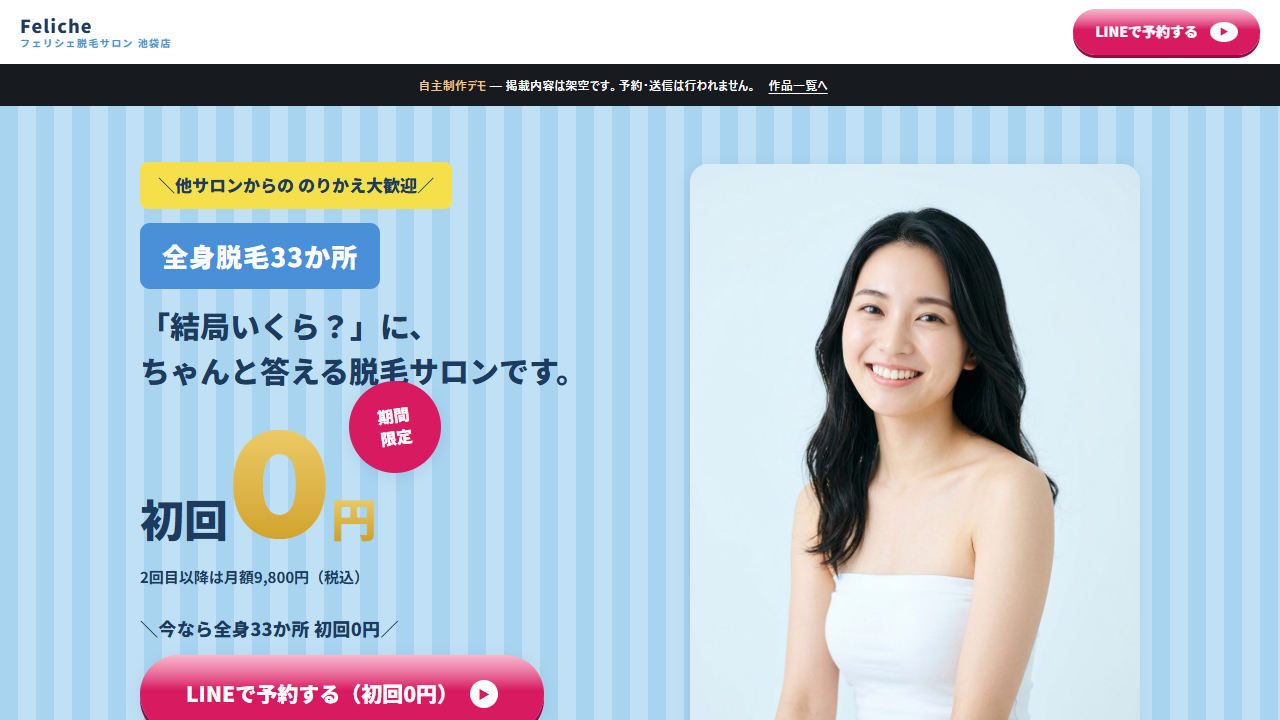
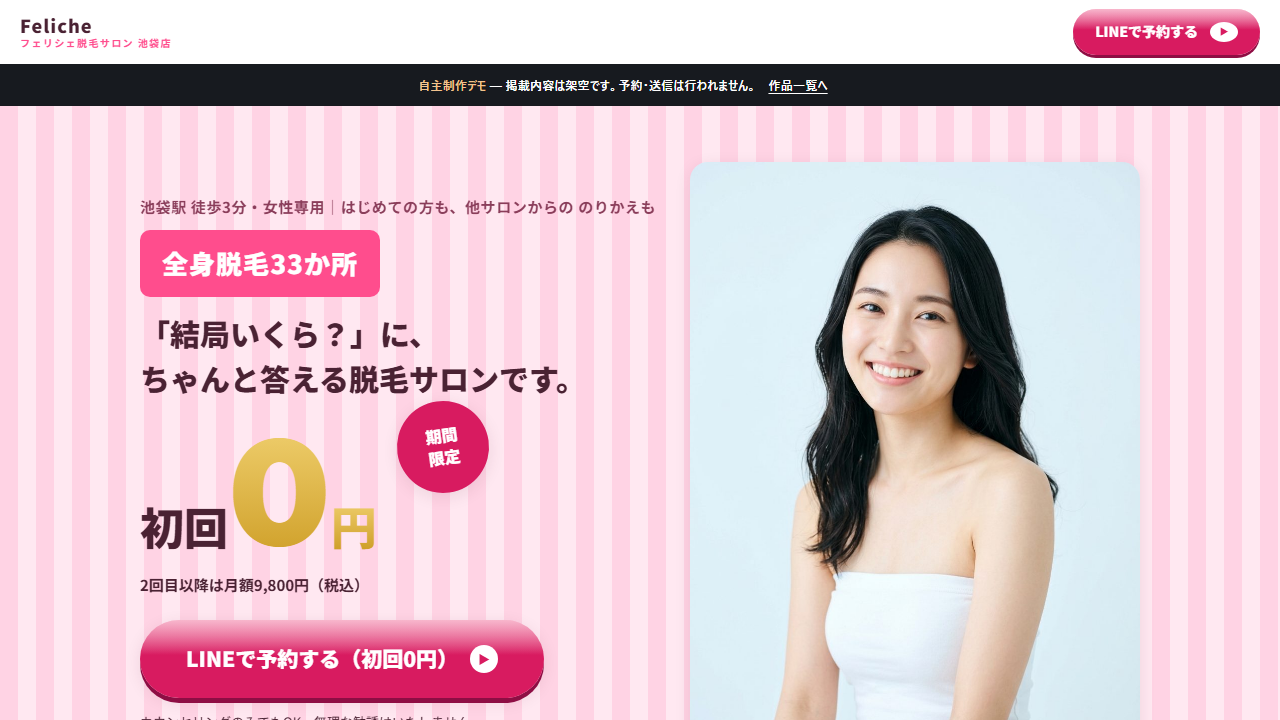
監査で不合格だった3LPのファーストビューを改修（michishirube・inahodo・feliche）
- michishirube: 縦センタリング起因の左上空白を解消し、特徴3点を全幅帯へ
  移動して構成を差別化。写真にネイビートーンの編集処理を追加
- inahodo: PC初期表示に商品名・価格・CTAのスティッキーバーを常設し、
  ヒーロー直下に贈答・自宅用の対象帯を追加（SPの表示は従来どおり）
- feliche: 黄タグを対象明記の一行に置換、FVの重複マイクロコピーを削除、
  期間限定バッジの重なりを解消（SPはインラインピル化）
- 3作品のハブ用プレビュー画像を新FVで再生成

3視点セット審査で3作品とも2/3以上合格、320-1440pxの5幅で
横スクロールなし・コンソールエラー0を確認。

diff --git a/michishirube/index.html b/michishirube/index.html
@@ -41,21 +41,24 @@ a{color:var(--civic)}
 .btn.small{padding:9px 18px;font-size:14px}
 
 /* ---- hero ---- */
-.hero{display:grid;grid-template-columns:50% 50%;min-height:82vh;border-bottom:1px solid var(--line)}
-.hero-copy{display:flex;flex-direction:column;justify-content:center;padding:56px 44px 56px 24px;max-width:620px;justify-self:end;width:100%}
+.hero{display:grid;grid-template-columns:46% 54%;min-height:0;border-bottom:1px solid var(--line)}
+.hero-copy{display:flex;flex-direction:column;justify-content:flex-start;padding:68px 44px 64px 24px;max-width:620px;justify-self:end;width:100%}
 .eyebrow{font-size:13px;font-weight:700;color:var(--civic);letter-spacing:.14em;margin-bottom:20px}
 .eyebrow::before{content:"";display:inline-block;width:28px;height:4px;background:var(--civic);margin-right:10px;vertical-align:middle}
 h1{font-size:clamp(30px,3.4vw,44px);font-weight:900;line-height:1.45;letter-spacing:.01em}
 h1 .bw{display:inline-block}
 .hero-sub{margin-top:20px;font-size:16px;font-weight:300;line-height:2.0}
-.trust{display:flex;margin-top:28px;border-top:1px solid var(--line);border-bottom:1px solid var(--line)}
-.trust li{list-style:none;flex:1;text-align:center;padding:12px 4px;font-size:13px;font-weight:700}
+.trust{grid-column:1/-1;display:flex;margin:0;background:var(--mist);border-top:1px solid var(--line)}
+.trust li{list-style:none;flex:1;text-align:center;padding:18px 4px;font-size:14px;font-weight:700}
+.trust li::before{content:"";display:inline-block;width:8px;height:8px;border-radius:50%;background:var(--civic);margin-right:9px;vertical-align:2px}
 .trust li+li{border-left:1px solid var(--line)}
-.hero-action{margin-top:28px}
+.hero-action{margin-top:32px}
 .cta-note{font-size:12px;color:#55565C;margin-top:8px}
-.hero-photo{position:relative;overflow:hidden}
-.hero-photo img{width:100%;height:100%;object-fit:cover;object-position:50% 56%}
-.demo-ribbon{position:absolute;top:14px;right:0;background:var(--ink);color:#fff;font-size:11px;font-weight:500;letter-spacing:.1em;padding:5px 14px}
+.hero-photo{position:relative;overflow:hidden;min-height:440px}
+.hero-photo img{width:100%;height:100%;object-fit:cover;object-position:50% 56%;filter:saturate(.82) contrast(1.05)}
+.hero-photo::after{content:"";position:absolute;inset:0;z-index:1;pointer-events:none;
+  background:linear-gradient(205deg, rgba(20,40,80,0) 52%, rgba(20,40,80,.26) 100%)}
+.demo-ribbon{position:absolute;top:14px;right:0;z-index:2;background:var(--ink);color:#fff;font-size:11px;font-weight:500;letter-spacing:.1em;padding:5px 14px}
 
 /* ---- sections ---- */
 section{padding:64px 24px}
@@ -139,7 +142,7 @@ footer .demo-note{font-weight:700;color:var(--ink);margin-bottom:6px}
   .hero{grid-template-columns:1fr;min-height:0}
   .hero-copy{padding:26px 20px 32px;max-width:none;justify-self:stretch}
   .hero-sub{font-size:14px;margin-top:14px;line-height:1.8}
-  .trust{margin-top:18px}
+  .trust{margin-top:0}
   .hero-action{margin-top:18px}
   .eyebrow{margin-bottom:12px}
   h1{font-size:27px}
@@ -191,11 +194,6 @@ p,li,dt,dd{text-wrap:pretty}
       <p class="eyebrow">補助金・許認可・相続の申請代行</p>
       <h1><span class="bw">申請書類に、</span><span class="bw">あなたの時間を</span><span class="bw">使わせない。</span></h1>
       <p class="hero-sub">補助金・許認可・相続——面倒な行政手続きを、行政書士がまるごとサポート。あなたは本業と暮らしに集中できます。</p>
-      <ul class="trust">
-        <li>初回相談無料</li>
-        <li>オンライン対応</li>
-        <li>土日祝も受付</li>
-      </ul>
       <div class="hero-action">
         <a class="btn" href="#contact">無料相談を予約する</a>
         <p class="cta-note">30分・オンライン可・売り込みは一切ありません</p>
@@ -206,6 +204,11 @@ p,li,dt,dd{text-wrap:pretty}
       <img src="assets/hero.webp" alt="申請書類に記入する行政書士の手元のイメージ（AI生成）" width="1152" height="2048">
       <span class="demo-ribbon">架空デモ</span>
     </div>
+    <ul class="trust">
+      <li>初回相談無料</li>
+      <li>オンライン対応</li>
+      <li>土日祝も受付</li>
+    </ul>
   </div>
 
   <section>

diff --git a/feliche/index.html b/feliche/index.html
@@ -75,6 +75,7 @@ a:focus-visible,button:focus-visible{outline:3px solid var(--navy);outline-offse
 /* ===== FV ===== */
 .fv{padding:56px 0 0;overflow:hidden}
 .fv .inner{display:grid;grid-template-columns:1.15fr 1fr;gap:32px;align-items:center}
+.fv-target{font-weight:700;font-size:15px;letter-spacing:.04em;color:#8A3D5A;margin:0 0 10px}
 .fv-hook{display:inline-block;background:var(--yellow);font-weight:900;font-size:17px;
   padding:8px 18px;border-radius:8px;margin-bottom:14px}
 .fv-define{display:inline-block;background:var(--blue);color:#fff;font-weight:900;font-size:26px;
@@ -84,7 +85,7 @@ a:focus-visible,button:focus-visible{outline:3px solid var(--navy);outline-offse
 .fv-offer .label{font-size:44px;font-weight:900;vertical-align:baseline}
 .fv-offer .zero{font-family:'Montserrat','Noto Sans JP',sans-serif;font-weight:800;font-size:150px;vertical-align:baseline}
 .fv-offer .unit{font-size:46px;font-weight:900;vertical-align:baseline}
-.fv-badge{position:absolute;top:-28px;right:-64px;width:92px;height:92px;border-radius:50%;
+.fv-badge{position:absolute;top:-16px;right:-112px;width:92px;height:92px;border-radius:50%;
   background:var(--pink);color:#fff;display:flex;align-items:center;justify-content:center;
   font-weight:900;font-size:16px;line-height:1.35;text-align:center;transform:rotate(-8deg);
   box-shadow:var(--shadow)}
@@ -278,7 +279,7 @@ html.js .reveal.on{opacity:1;transform:none}
   .fv-offer .label{font-size:30px}
   .fv-offer .zero{font-size:96px}
   .fv-offer .unit{font-size:32px}
-  .fv-badge{top:-22px;right:-6px;width:76px;height:76px;font-size:13px}
+  .fv-badge{position:static;display:inline-flex;align-items:center;justify-content:center;width:auto;height:auto;border-radius:999px;padding:7px 13px;font-size:12px;line-height:1.35;margin-left:10px;vertical-align:24px}
   .fv .cta-block{text-align:center}
   .worry-cards{grid-template-columns:1fr;gap:14px}
   .reasons{grid-template-columns:1fr}
@@ -330,7 +331,7 @@ p,li,dt,dd{text-wrap:pretty}
 <section class="fv bg-stripe">
   <div class="inner">
     <div>
-      <span class="fv-hook">＼他サロンからの のりかえ大歓迎／</span><br>
+      <p class="fv-target">池袋駅 徒歩3分・女性専用｜はじめての方も、他サロンからの のりかえも</p>
       <span class="fv-define">全身脱毛33か所</span>
       <h1>「結局いくら？」に、<br><span class="bw">ちゃんと答える</span><span class="bw">脱毛サロンです。</span></h1>
       <div class="fv-offer">
@@ -339,8 +340,7 @@ p,li,dt,dd{text-wrap:pretty}
       </div>
       <p class="fv-anchor">2回目以降は月額9,800円（税込）</p>
       <div class="cta-block">
-        <p class="cta-micro">＼今なら全身33か所 初回0円／</p>
-        <!-- TODO: LINE公式アカウントURL確定後に差し替え（公開ブロッカー） -->
+                <!-- TODO: LINE公式アカウントURL確定後に差し替え（公開ブロッカー） -->
         <a class="cta-btn" href="#">LINEで予約する（初回0円）<span class="arrow">▶</span></a>
         <p class="cta-note">カウンセリングのみでもOK・無理な勧誘はいたしません</p>
       </div>

diff --git a/inahodo/index.html b/inahodo/index.html
@@ -33,6 +33,23 @@
       border-left:1px solid rgba(28,28,28,.10);border-right:1px solid rgba(28,28,28,.10);
       box-shadow:0 0 50px rgba(28,28,28,.18);}
 
+  /* PC用の注文バー（2026-08-30 監査対応: PCの初期表示内に商品・価格・CTAを常時置く。SPは従来表示のまま） */
+  .order-bar{display:none;}
+  @media(min-width:900px){
+    .order-bar{position:sticky;top:0;z-index:60;display:flex;align-items:center;justify-content:space-between;
+      gap:14px;padding:12px 18px;background:rgba(245,239,227,.97);border-bottom:1px solid rgba(28,28,28,.14);}
+    .order-bar .name{font-family:var(--serif);font-weight:600;font-size:14px;letter-spacing:.08em;}
+    .order-bar .name small{display:block;font-family:var(--sans);font-weight:300;font-size:11px;color:var(--dim);letter-spacing:.06em;}
+    .order-bar .price{font-family:var(--serif);font-weight:800;font-size:16px;white-space:nowrap;}
+    .order-bar .btn{padding:10px 22px;white-space:nowrap;}
+  }
+  /* 贈答帯（誰向けかの明示） */
+  .gift-band{margin:0;padding:18px 24px;text-align:center;font-family:var(--serif);font-weight:600;
+    font-size:clamp(13px,3.4vw,15px);letter-spacing:.1em;color:var(--ink);line-height:1.9;
+    border-top:1px solid rgba(28,28,28,.12);border-bottom:1px solid rgba(28,28,28,.12);
+    background:radial-gradient(120% 100% at 50% 0%, rgba(179,62,44,.06), transparent 70%);}
+  .gift-band small{display:block;font-family:var(--sans);font-weight:300;font-size:12px;color:var(--dim);letter-spacing:.06em;}
+
   /* ゾーンA: 画像スライス */
   .slice{position:relative;line-height:0;}
   .slice img{width:100%;height:auto;display:block;}
@@ -103,6 +120,12 @@ p,li,dt,dd{text-wrap:pretty}
 <div class="lp">
   <h1 class="sr-only">稲穂堂 — 国産栗と砂糖だけで炊き上げた栗きんとんのお取り寄せ</h1>
 
+  <div class="order-bar">
+    <p class="name">稲穂堂 栗きんとん<small>国産栗と砂糖だけ・ご進物にも、ご自宅にも</small></p>
+    <p class="price">桐箱六個入 3,240円</p>
+    <a class="btn" href="#form">お取り寄せする</a>
+  </div>
+
   <!-- ゾーンA+B: スライス1（ヒーロー・受け皿方式 v2） -->
   <div class="slice">
     <img src="images/01-hero.webp" width="1024" height="1820" loading="eager"
@@ -113,6 +136,8 @@ p,li,dt,dd{text-wrap:pretty}
     <p class="overlay ov-sub" style="top:72.8%;left:6%;width:88%;height:6.4%;line-height:1.25;">国産栗と砂糖だけの栗きんとん<br>桐箱六個入 3,240円（税込）</p>
     <a class="overlay ov-cta" href="#form" style="top:82.9%;left:9.8%;width:81.8%;height:11%;">お取り寄せする →</a>
   </div>
+
+  <p class="gift-band">ご進物にも、ご自宅の秋にも。<small>のし・掛け紙は無料でお付けします。</small></p>
 
   <!-- ゾーンA+B: スライス2（世界観・製法） -->
   <div class="slice">
